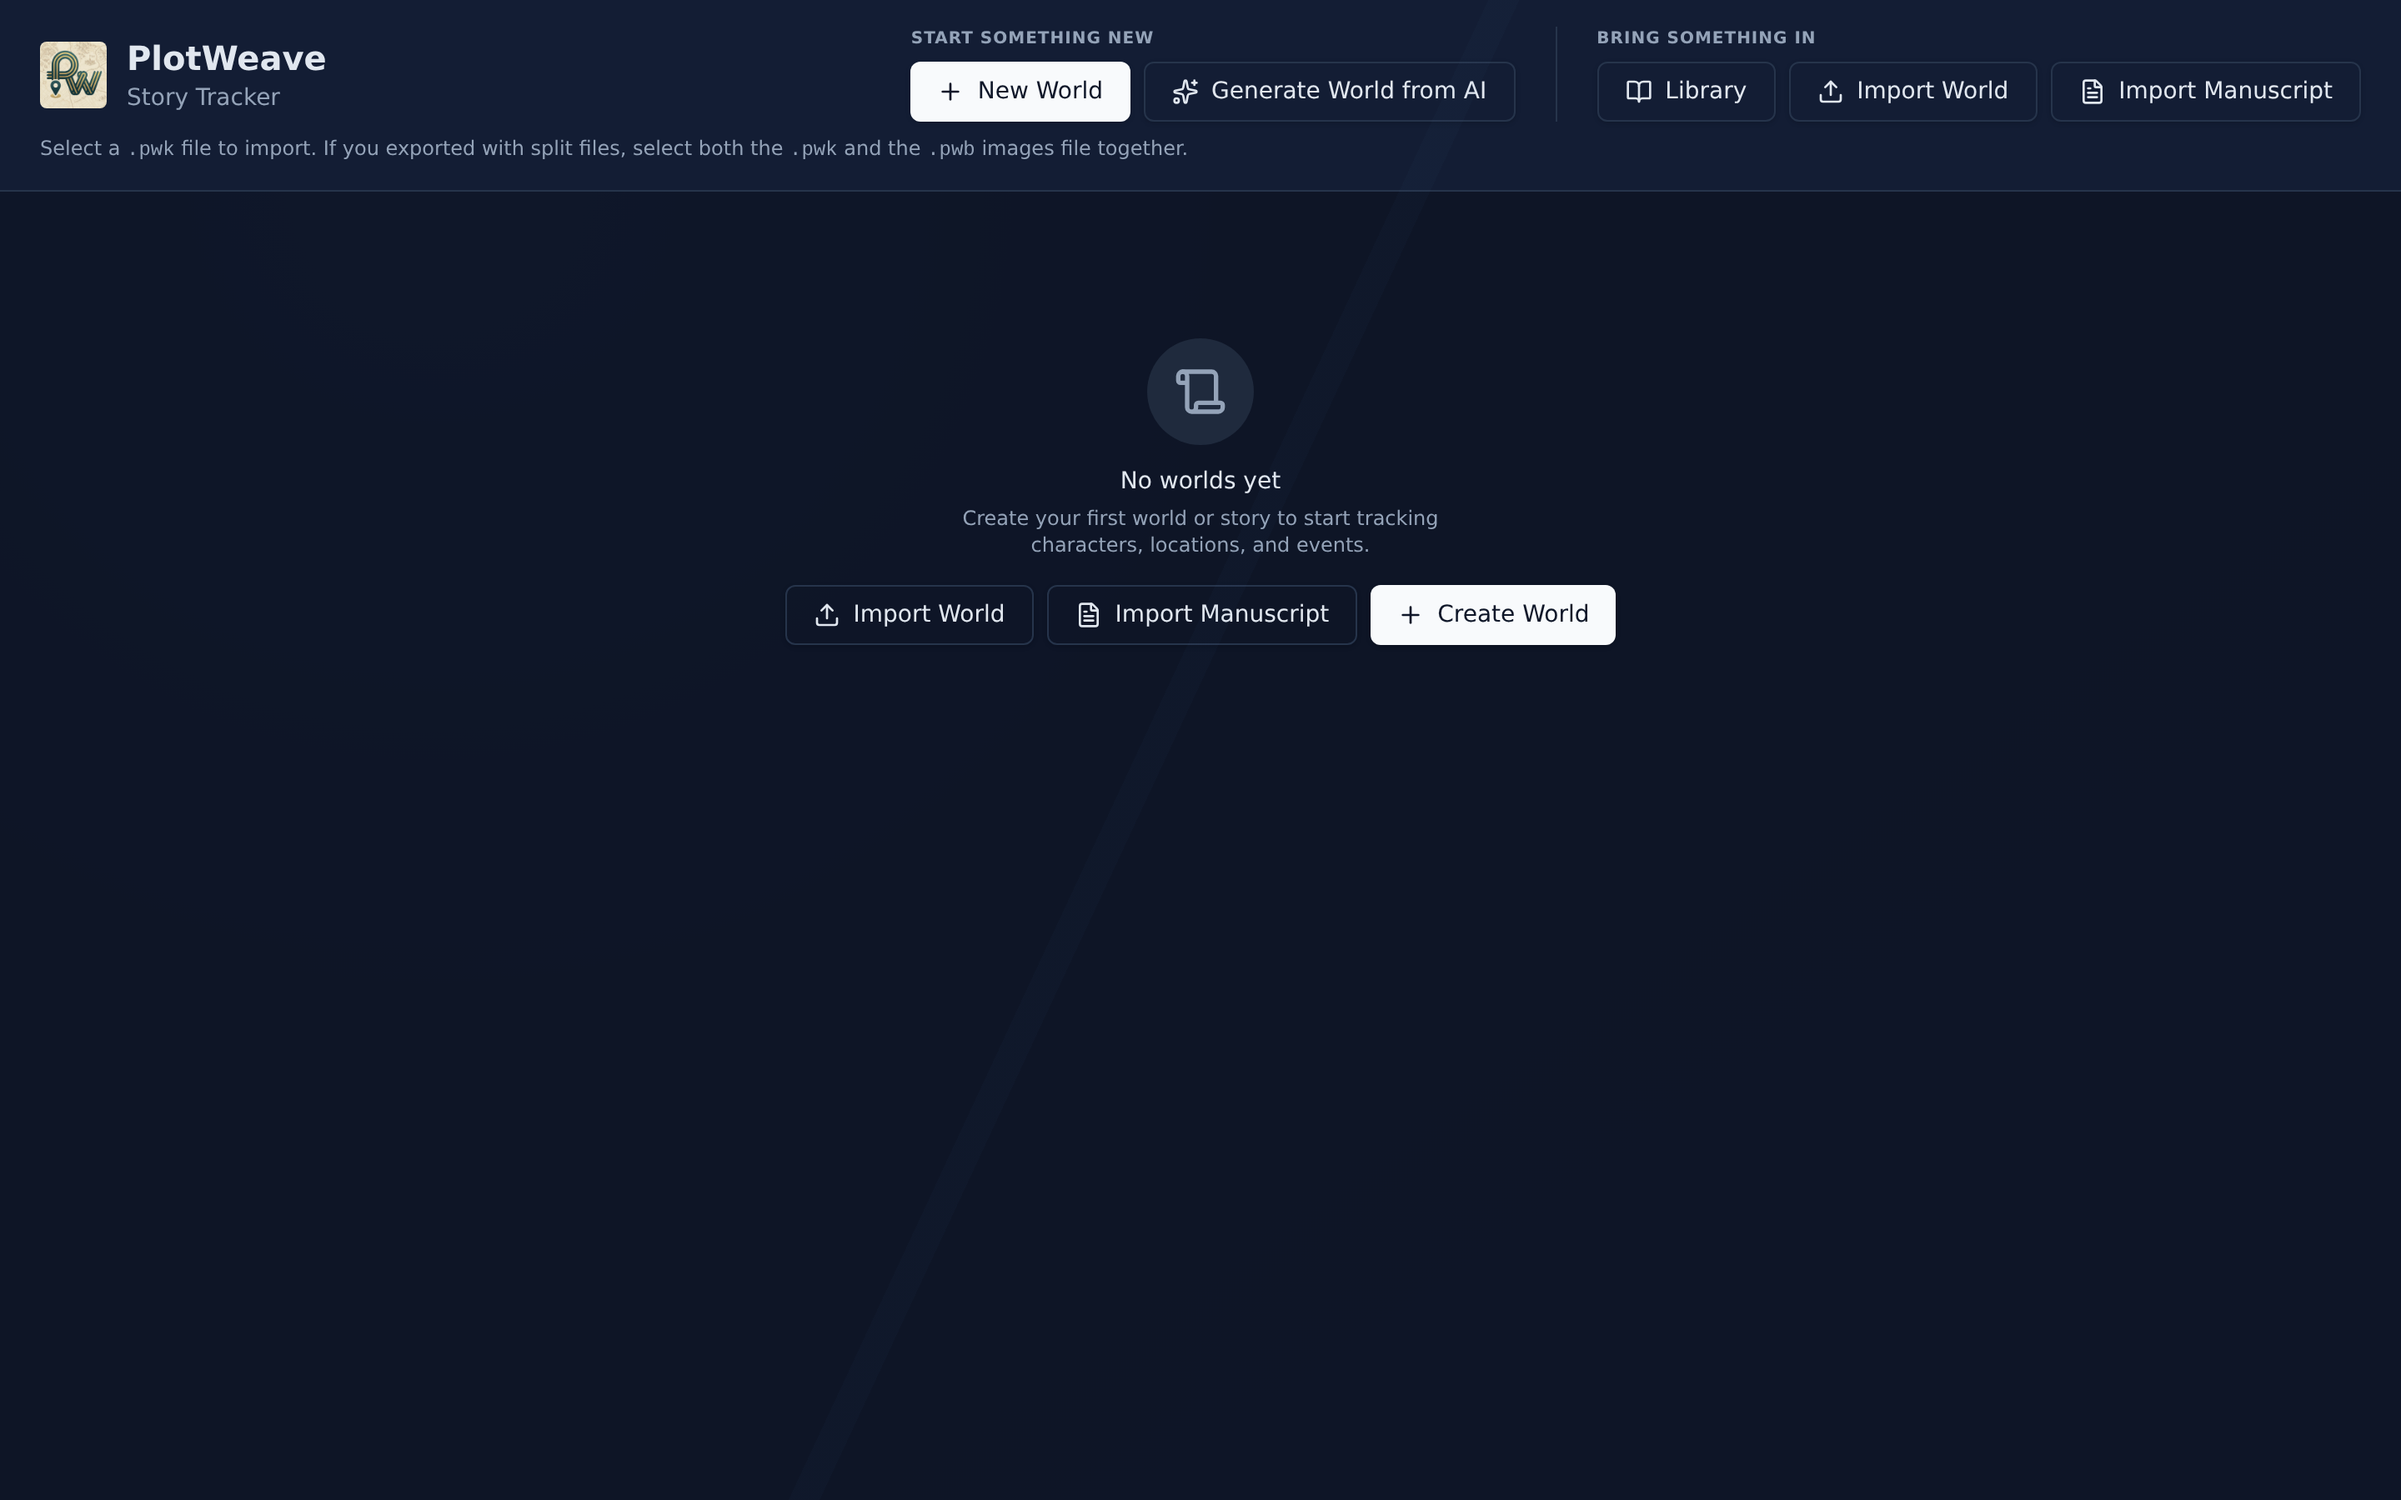
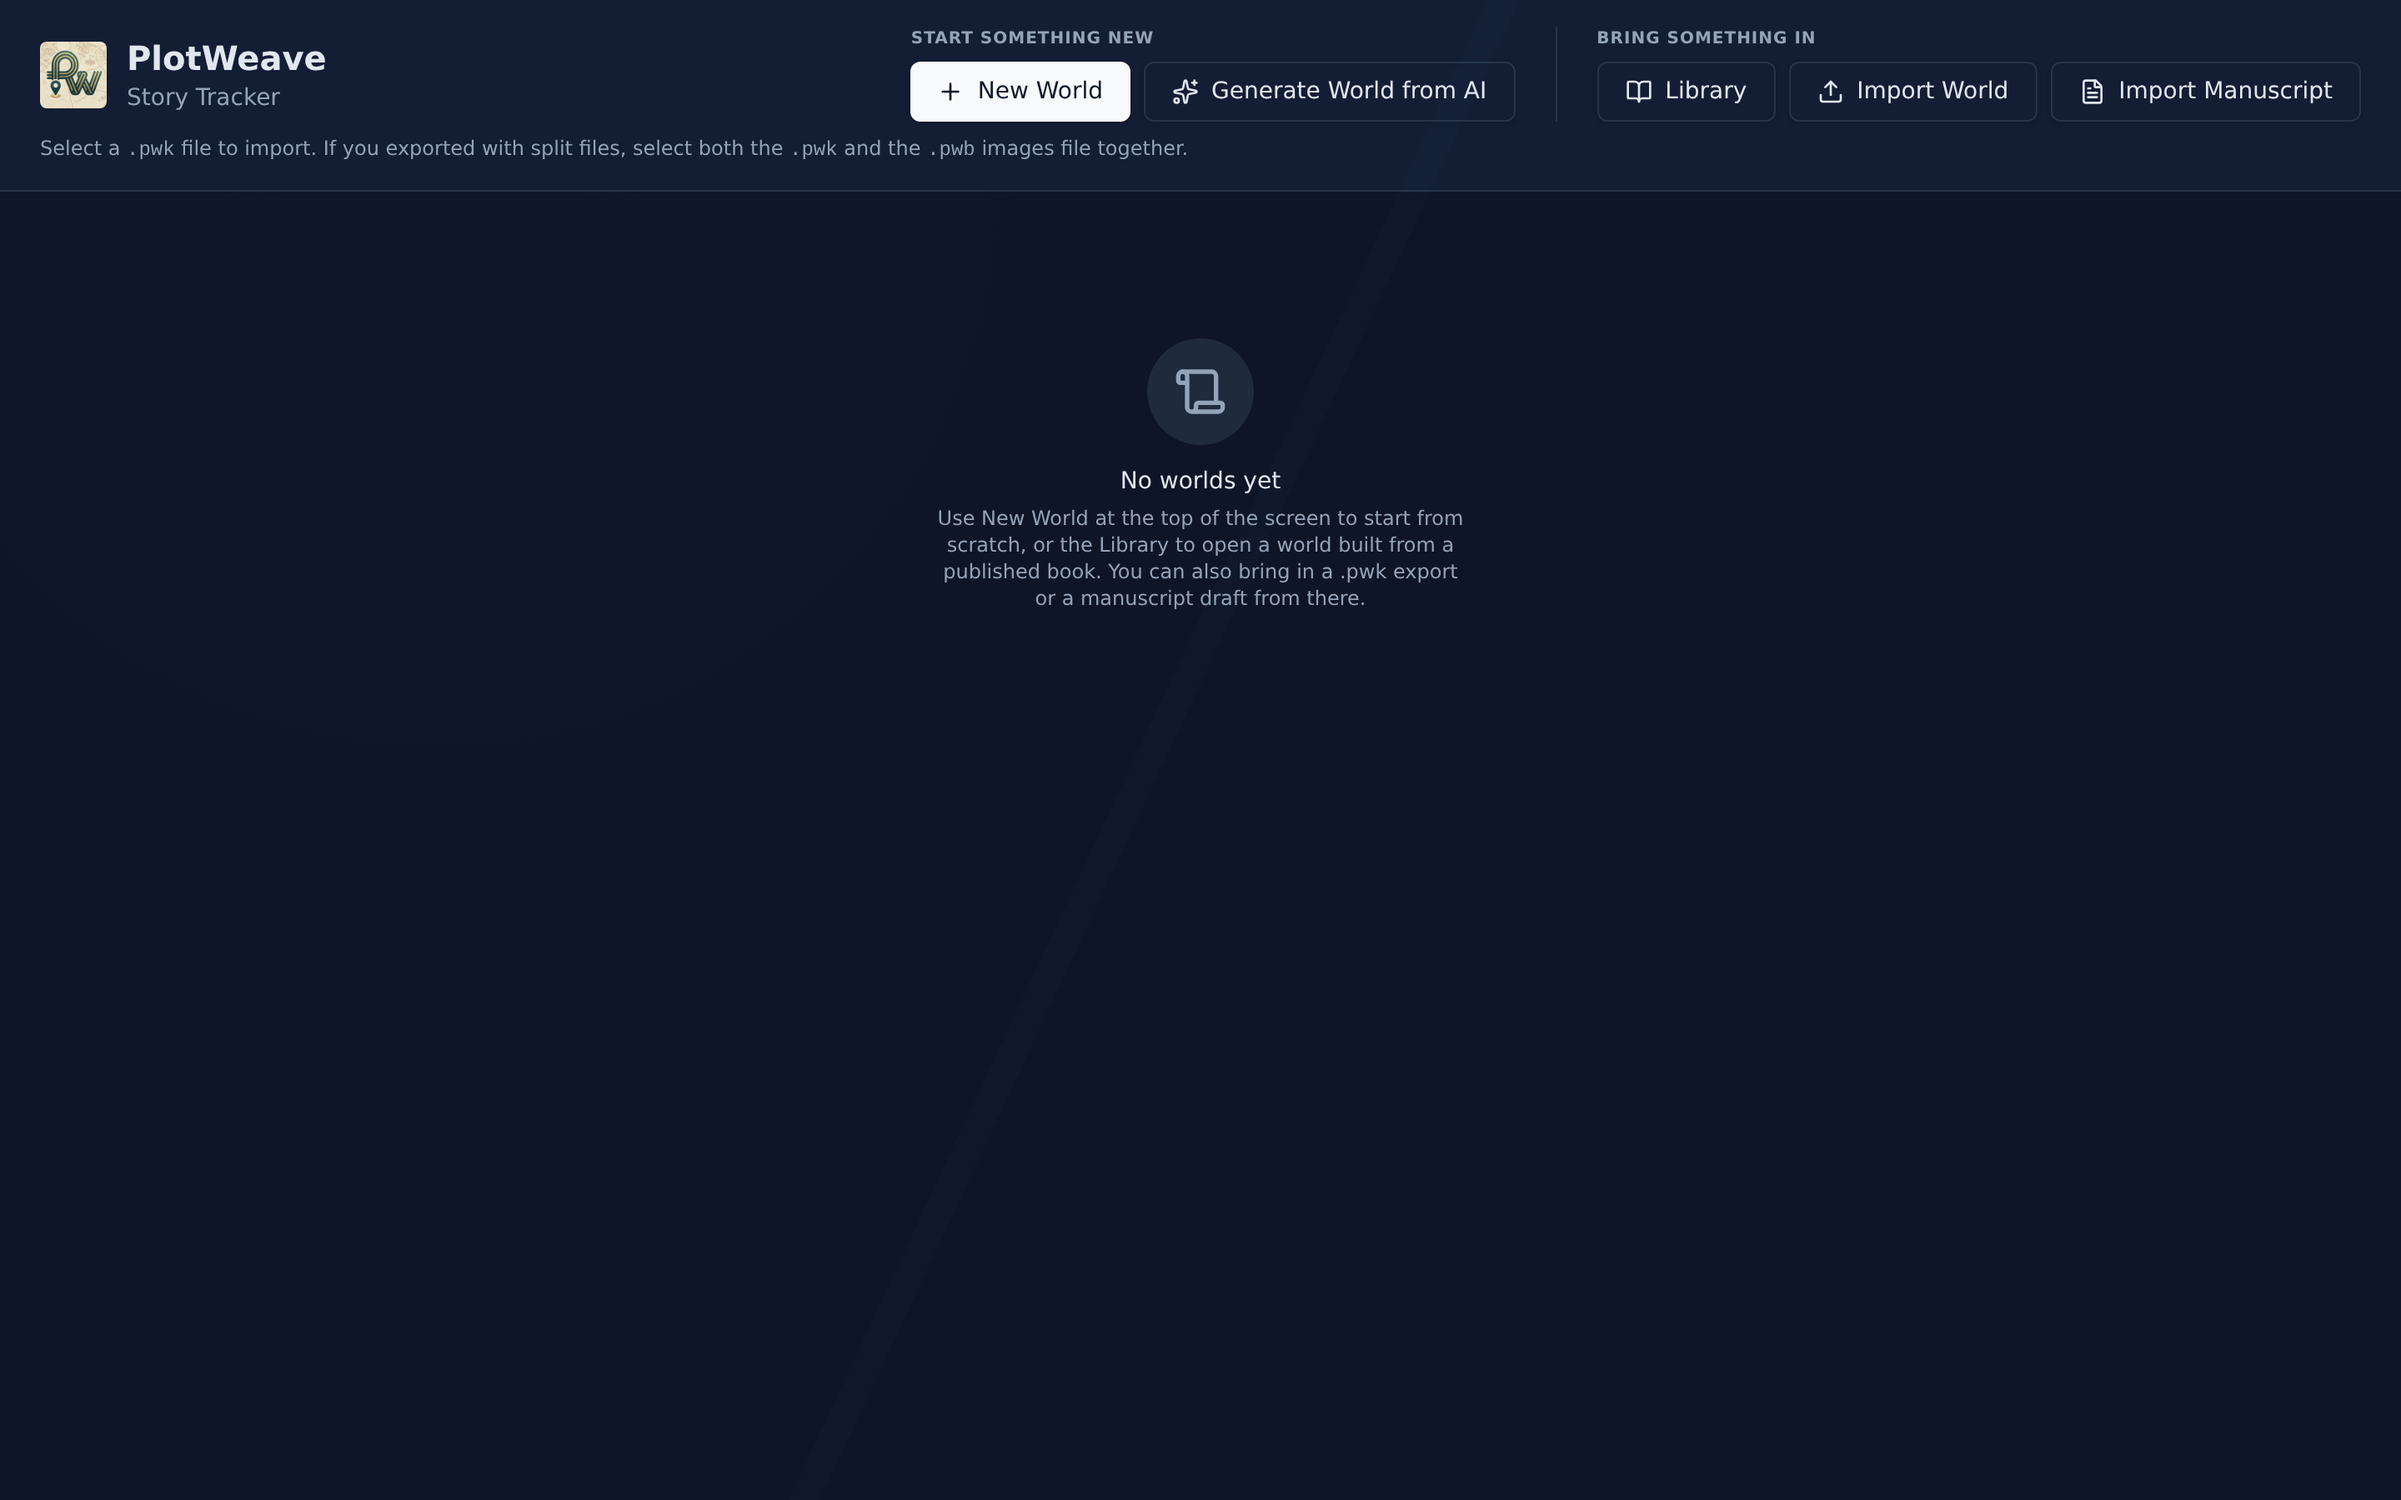
Align the empty shelf with the grouped entry points (#192)
* Stop the empty shelf competing with the entry points above it

Three of the five routes sat in the empty state, ungrouped, directly under the
header's two labelled groups — a second hierarchy with different labels for the
same things ("Create World" for what the header calls "New World") and no
mention of the Library at all, which is the best first run this app has.

It now offers the route most people want and the one most people have not
thought of, and a sentence pointing at the rest. Repeating all five would only
have been the original problem twice over.

Claude-Session: https://claude.ai/code/session_012HJuZ3q12imk2q9iq8d945

* Give the empty shelf prose, not a second copy of the buttons

The previous commit renamed the empty state's button to "New World" so it
matched the header, which put two buttons with that accessible name on an empty
shelf. Nearly every spec opens by clicking that name, so 199 of them broke on a
strict-mode violation. The impact of removing the old buttons was checked; the
impact of adding one was not.

It is also the wrong design, and the failure is what showed it. Any button here
duplicates one already visible a couple of hundred pixels above — Library
included — so repeating them is the same second hierarchy the change set out to
remove, only shorter. Two controls reading "New World" on one screen is an
ambiguity for anyone navigating by name, not only for a test.
[…]

Changed region(s): [[0.3438, 0.3422, 0.6875, 0.4356]]

diff --git a/src/features/worlds/WorldSelectorView.tsx b/src/features/worlds/WorldSelectorView.tsx
@@ -193,26 +193,25 @@ export default function WorldSelectorView() {
 
       <main className="flex-1 p-6">
         {worlds.length === 0 ? (
+          /*
+            No buttons here on purpose.
+
+            Three of the five entry points used to sit in this space, ungrouped,
+            directly under the header's two labelled groups — a second, competing
+            hierarchy, with a different label for the same thing ("Create World"
+            for what the header calls "New World") and no mention of the Library
+            at all, which is the best first run this app has.
+
+            Repeating a button that is already on screen and already grouped is
+            what caused that, so the empty state names the routes in prose and
+            points up at them instead. It also keeps every entry point to exactly
+            one control: two buttons reading "New World" on one screen is an
+            ambiguity for anyone navigating by name, not only for a test.
+          */
           <EmptyState
             icon={Scroll}
             title="No worlds yet"
-            description="Create your first world or story to start tracking characters, locations, and events."
-            action={
-              <div className="flex flex-wrap justify-center gap-2">
-                <Button variant="outline" onClick={handleImportClick}>
-                  <Upload className="h-4 w-4" />
-                  Import World
-                </Button>
-                <Button variant="outline" onClick={() => setManuscriptOpen(true)}>
-                  <FileText className="h-4 w-4" />
-                  Import Manuscript
-                </Button>
-                <Button onClick={() => setDialogOpen(true)}>
-                  <Plus className="h-4 w-4" />
-                  Create World
-                </Button>
-              </div>
-            }
+            description="Use New World at the top of the screen to start from scratch, or the Library to open a world built from a published book. You can also bring in a .pwk export or a manuscript draft from there."
           />
         ) : (
           /*

diff --git a/e2e/selectorGroups.spec.ts b/e2e/selectorGroups.spec.ts
@@ -45,4 +45,34 @@ test.describe('World selector entry points', () => {
     await fresh.getByRole('button', { name: 'New World' }).click()
     await expect(page.getByLabel('Name')).toBeVisible()
   })
+
+  test('the empty shelf points at the entry points instead of repeating them', async ({ page }) => {
+    // Three of the five used to sit in the empty state, ungrouped, under the
+    // header's two groups — a second hierarchy with a different label for the
+    // same thing, and no Library at all. Repeating them here was what caused
+    // that, so it names them in prose and points up.
+    await page.goto('/')
+    await resetDB(page)
+
+    const empty = page.getByRole('main')
+    await expect(empty.getByText('No worlds yet')).toBeVisible({ timeout: 30_000 })
+    await expect(empty).toContainText('New World')
+    await expect(empty).toContainText('Library')
+
+    // Every entry point is exactly one control on this screen. Two buttons
+    // reading "New World" is an ambiguity for anyone navigating by name, not
+    // only for a test — and it is what broke 199 specs when this empty state
+    // briefly carried its own copy.
+    for (const name of ['New World', 'Generate World from AI', 'Library', 'Import World', 'Import Manuscript']) {
+      await expect(page.getByRole('button', { name, exact: true }),
+        `"${name}" should be one button on the page, not two`).toHaveCount(1)
+    }
+    // Nothing in the empty state is a control at all.
+    await expect(empty.getByRole('button')).toHaveCount(0)
+
+    // Paired presence: the routes it names are live in the header's groups.
+    await page.getByRole('group', { name: 'Start something new' })
+      .getByRole('button', { name: 'New World' }).click()
+    await expect(page.getByLabel('Name')).toBeVisible()
+  })
 })

diff --git a/e2e/readingMode.spec.ts b/e2e/readingMode.spec.ts
@@ -30,8 +30,16 @@ async function cursorTitle(page: Page): Promise<string> {
 
 /** The reader's deliberate "show me everything", confirm and all. */
 async function revealAll(page: Page) {
-  await page.getByRole('button', { name: 'View all chapters' }).click()
-  await page.getByRole('button', { name: 'Show everything' }).click()
+  // "Show everything" lives in a confirm the first click raises. On a loaded
+  // machine that click can land before the control is wired, leaving the second
+  // one waiting on a dialog that never opened — the flake this helper showed on
+  // several runs. Re-open until the confirm is actually there.
+  const confirm = page.getByRole('button', { name: 'Show everything' })
+  await expect(async () => {
+    await page.getByRole('button', { name: 'View all chapters' }).click()
+    await expect(confirm).toBeVisible({ timeout: 2000 })
+  }).toPass({ timeout: 30_000 })
+  await confirm.click()
 }
 
 async function downloadFirstLibraryWorld(page: Page) {

diff --git a/e2e/worlds.spec.ts b/e2e/worlds.spec.ts
@@ -7,9 +7,13 @@ test.describe('World management', () => {
     await resetDB(page)
   })
 
-  test('shows empty state with "Create World" prompt', async ({ page }) => {
+  test('shows the empty state and the ways in', async ({ page }) => {
     await expect(page.getByRole('heading', { name: 'PlotWeave' })).toBeVisible()
-    await expect(page.getByRole('button', { name: 'Create World' })).toBeVisible()
+    await expect(page.getByRole('main')).toContainText('No worlds yet')
+    // The empty state no longer carries its own copy of the entry points — they
+    // live in the header's two groups, one control each.
+    await expect(page.getByRole('group', { name: 'Start something new' })
+      .getByRole('button', { name: 'New World' })).toBeVisible()
   })
 
   test('creates a new world and navigates to its dashboard', async ({ page }) => {

diff --git a/docs/GUIDE.md b/docs/GUIDE.md
@@ -84,6 +84,11 @@ have:
 If your export was split into data + images, select both the `.pwk` and its
 `.pwb` images file together.
 
+With nothing on the shelf yet, the page names the two routes most people want
+first — **New World** to start from scratch, and the **Library** to open a world
+built from a published book — and points at the groups along the top, rather
+than repeating buttons that are already on screen.
+
 ![Empty world selector](images/01-home-empty.png)
 
 Once you have worlds, each appears as a card with its name, last-edited date, and
